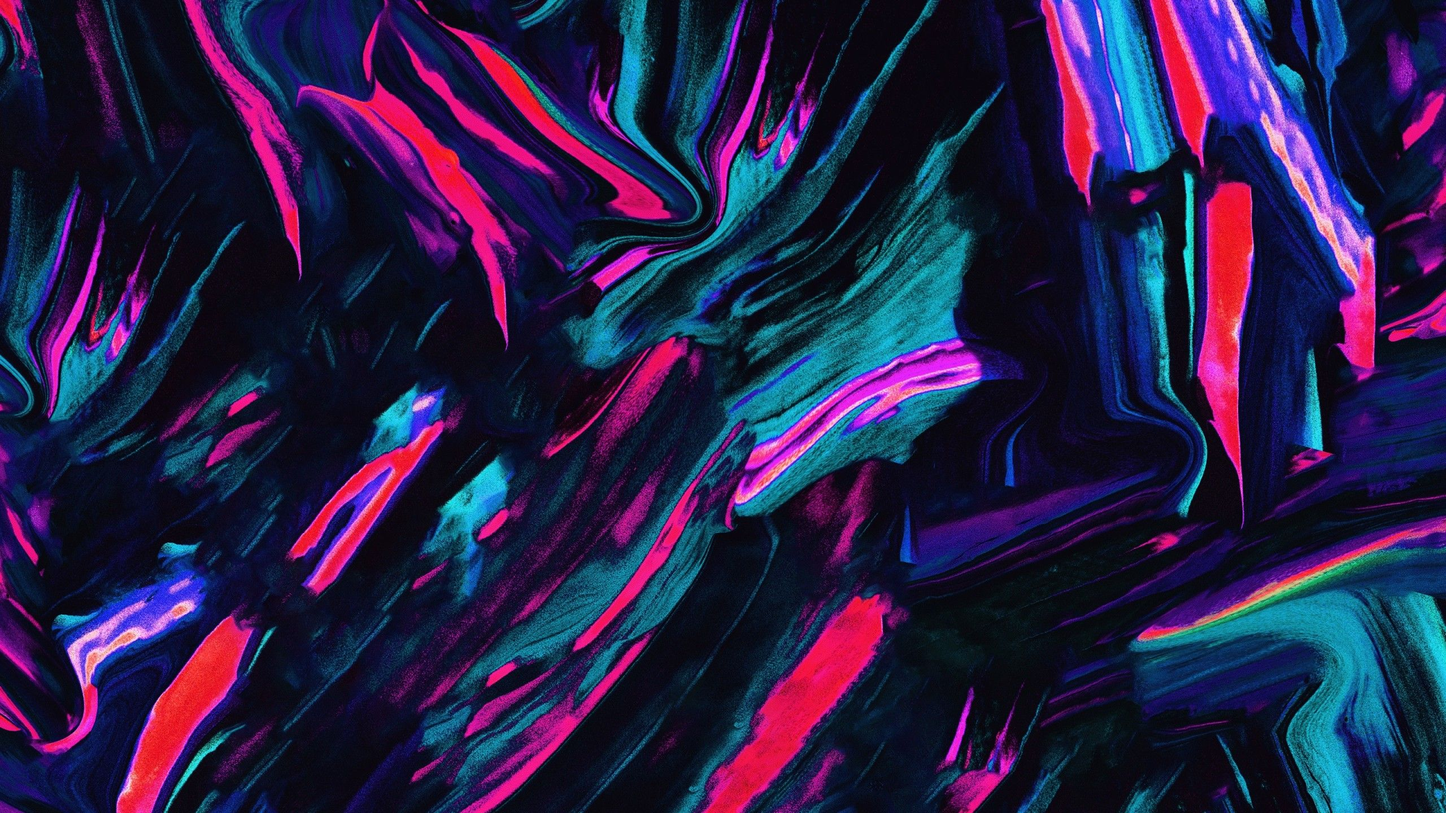
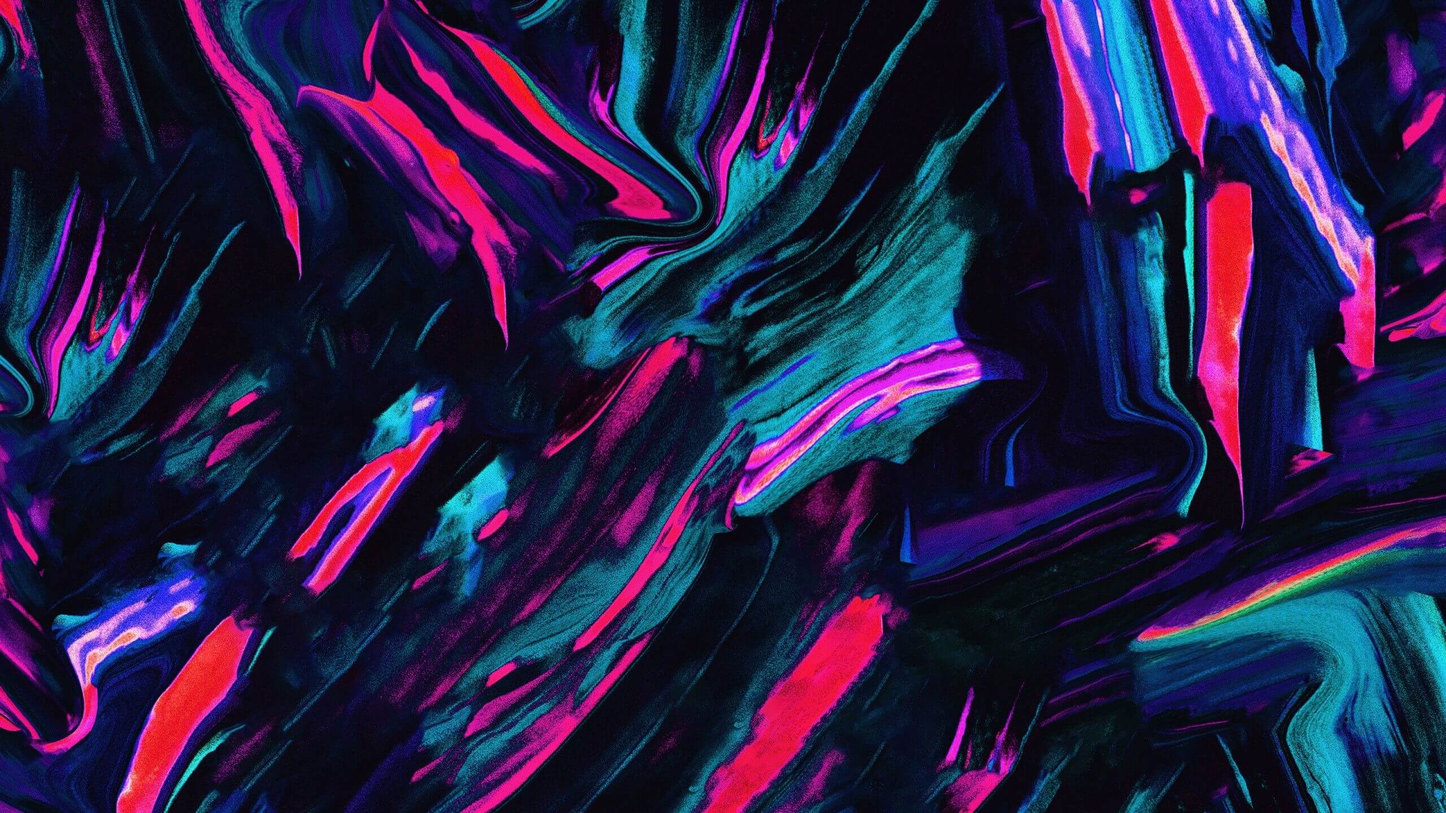
add alt text, optimize bg image

diff --git a/index.html b/index.html
@@ -68,14 +68,14 @@
     <div id="images">
     <section class="s-home target-section" data-parallax="scroll">
         <div id="image-track" data-mouse-down-at="0" data-prev-percentage="0">
-            <img class="image" src="https://cdn.discordapp.com/attachments/1062382940174172251/1062383038421545040/c2oAaIU.jpg" draggable="false" />
-            <img class="image" src="https://cdn.discordapp.com/attachments/1062382940174172251/1062383040384466985/rAQldBA.jpg" draggable="false" />
-            <img class="image" src="https://cdn.discordapp.com/attachments/1062382940174172251/1062383037062590494/23JaJuF.jpg" draggable="false" />
-            <img class="image" src="https://cdn.discordapp.com/attachments/1062382940174172251/1062383039902138529/NidYEnI.jpg" draggable="false" />
-            <img class="image" src="https://cdn.discordapp.com/attachments/1062382940174172251/1062383039193284628/d3RNYlc.jpg" draggable="false" />
-            <img class="image" src="https://cdn.discordapp.com/attachments/1062382940174172251/1062383037704323162/60kvCRy.jpg" draggable="false" />
-            <img class="image" src="https://cdn.discordapp.com/attachments/1062382940174172251/1062384357236559892/NENyJDh.jpg" draggable="false" />
-            <img class="image" src="https://cdn.discordapp.com/attachments/1062382940174172251/1062383038039851119/artworks-000280812854-9b6bnf-t500x500.jpg" draggable="false" />
+            <img class="image" alt="discord cdn image" src="https://cdn.discordapp.com/attachments/1062382940174172251/1062383038421545040/c2oAaIU.jpg" draggable="false" />
+            <img class="image" alt="discord cdn image" src="https://cdn.discordapp.com/attachments/1062382940174172251/1062383040384466985/rAQldBA.jpg" draggable="false" />
+            <img class="image" alt="discord cdn image" src="https://cdn.discordapp.com/attachments/1062382940174172251/1062383037062590494/23JaJuF.jpg" draggable="false" />
+            <img class="image" alt="discord cdn image" src="https://cdn.discordapp.com/attachments/1062382940174172251/1062383039902138529/NidYEnI.jpg" draggable="false" />
+            <img class="image" alt="discord cdn image" src="https://cdn.discordapp.com/attachments/1062382940174172251/1062383039193284628/d3RNYlc.jpg" draggable="false" />
+            <img class="image" alt="discord cdn image" src="https://cdn.discordapp.com/attachments/1062382940174172251/1062383037704323162/60kvCRy.jpg" draggable="false" />
+            <img class="image" alt="discord cdn image" src="https://cdn.discordapp.com/attachments/1062382940174172251/1062384357236559892/NENyJDh.jpg" draggable="false" />
+            <img class="image" alt="discord cdn image" src="https://cdn.discordapp.com/attachments/1062382940174172251/1062383038039851119/artworks-000280812854-9b6bnf-t500x500.jpg" draggable="false" />
           </div>        
           <link rel="stylesheet" href="css/showstyle.css">
           <script src="js/showscript.js"></script>        
